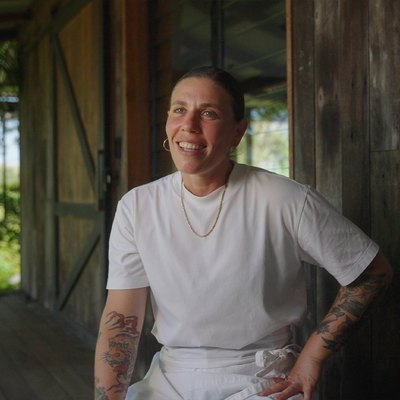
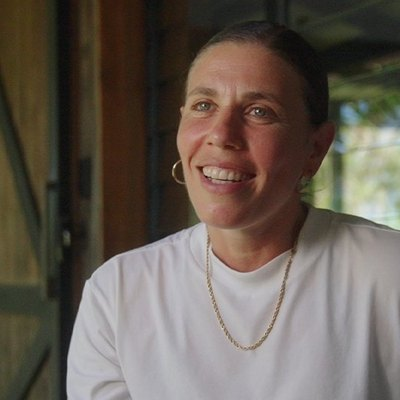
Enlarge testimonial circles and re-crop Zac/Daniela tighter
Avatar circles 3rem to 3.75rem; Zac and Daniela re-cropped
closer around the face so their heads match Dean's scale.

https://claude.ai/code/session_015EisrSiWk9PzKpt7CHXEfL

diff --git a/css/styles.css b/css/styles.css
@@ -1067,8 +1067,8 @@ iframe.work-card__preview {
 }
 
 .testimonial__avatar {
-  width: 3rem;
-  height: 3rem;
+  width: 3.75rem;
+  height: 3.75rem;
   border-radius: 50%;
   object-fit: cover;
   flex-shrink: 0;